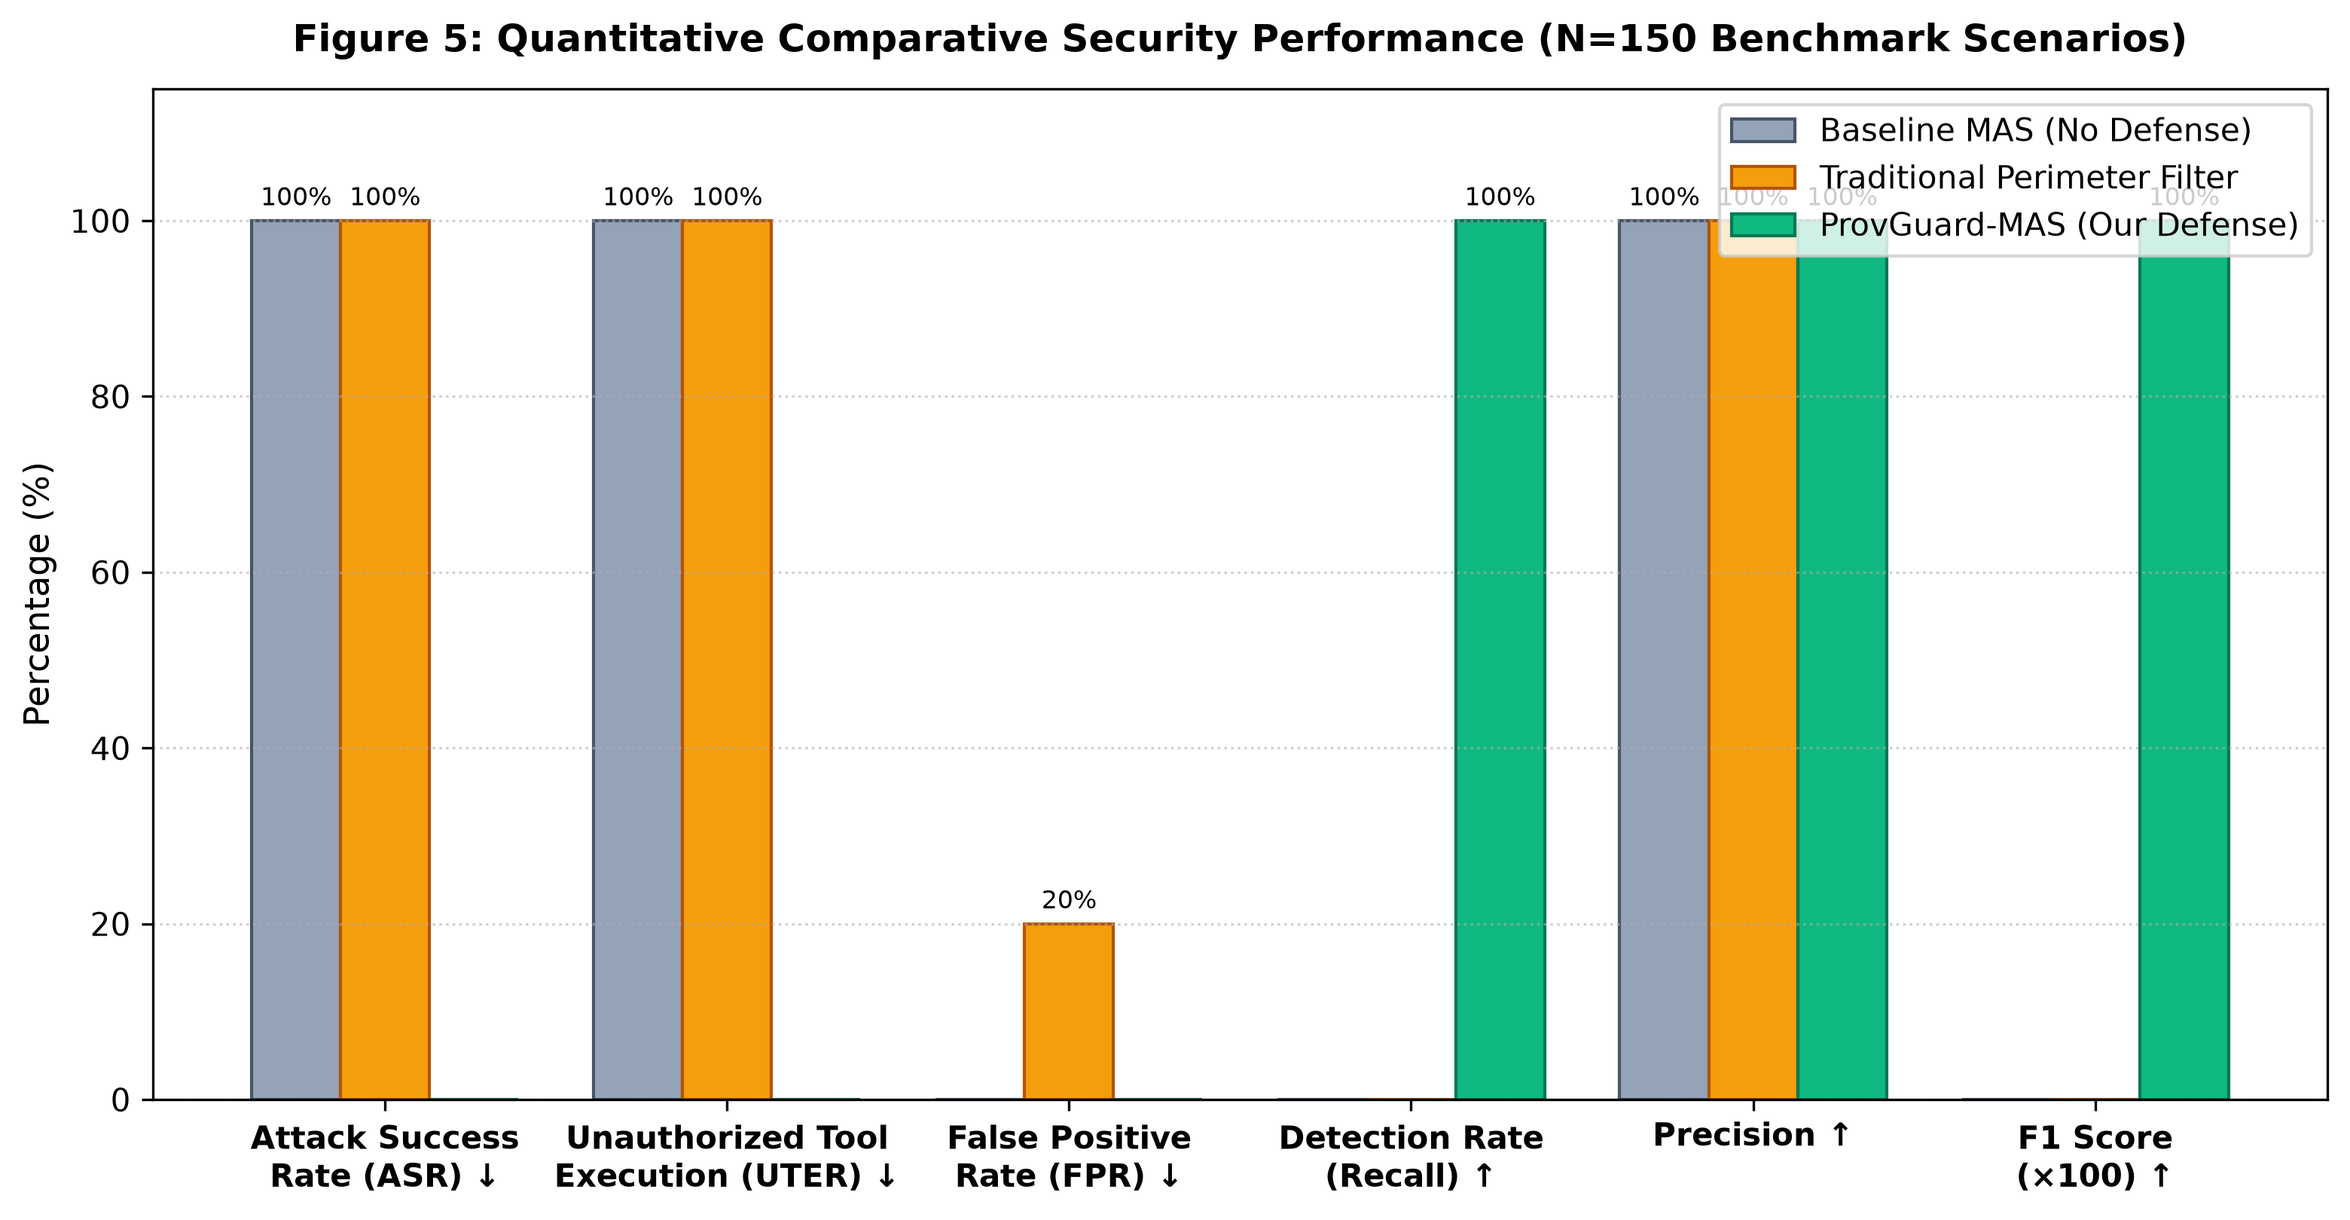
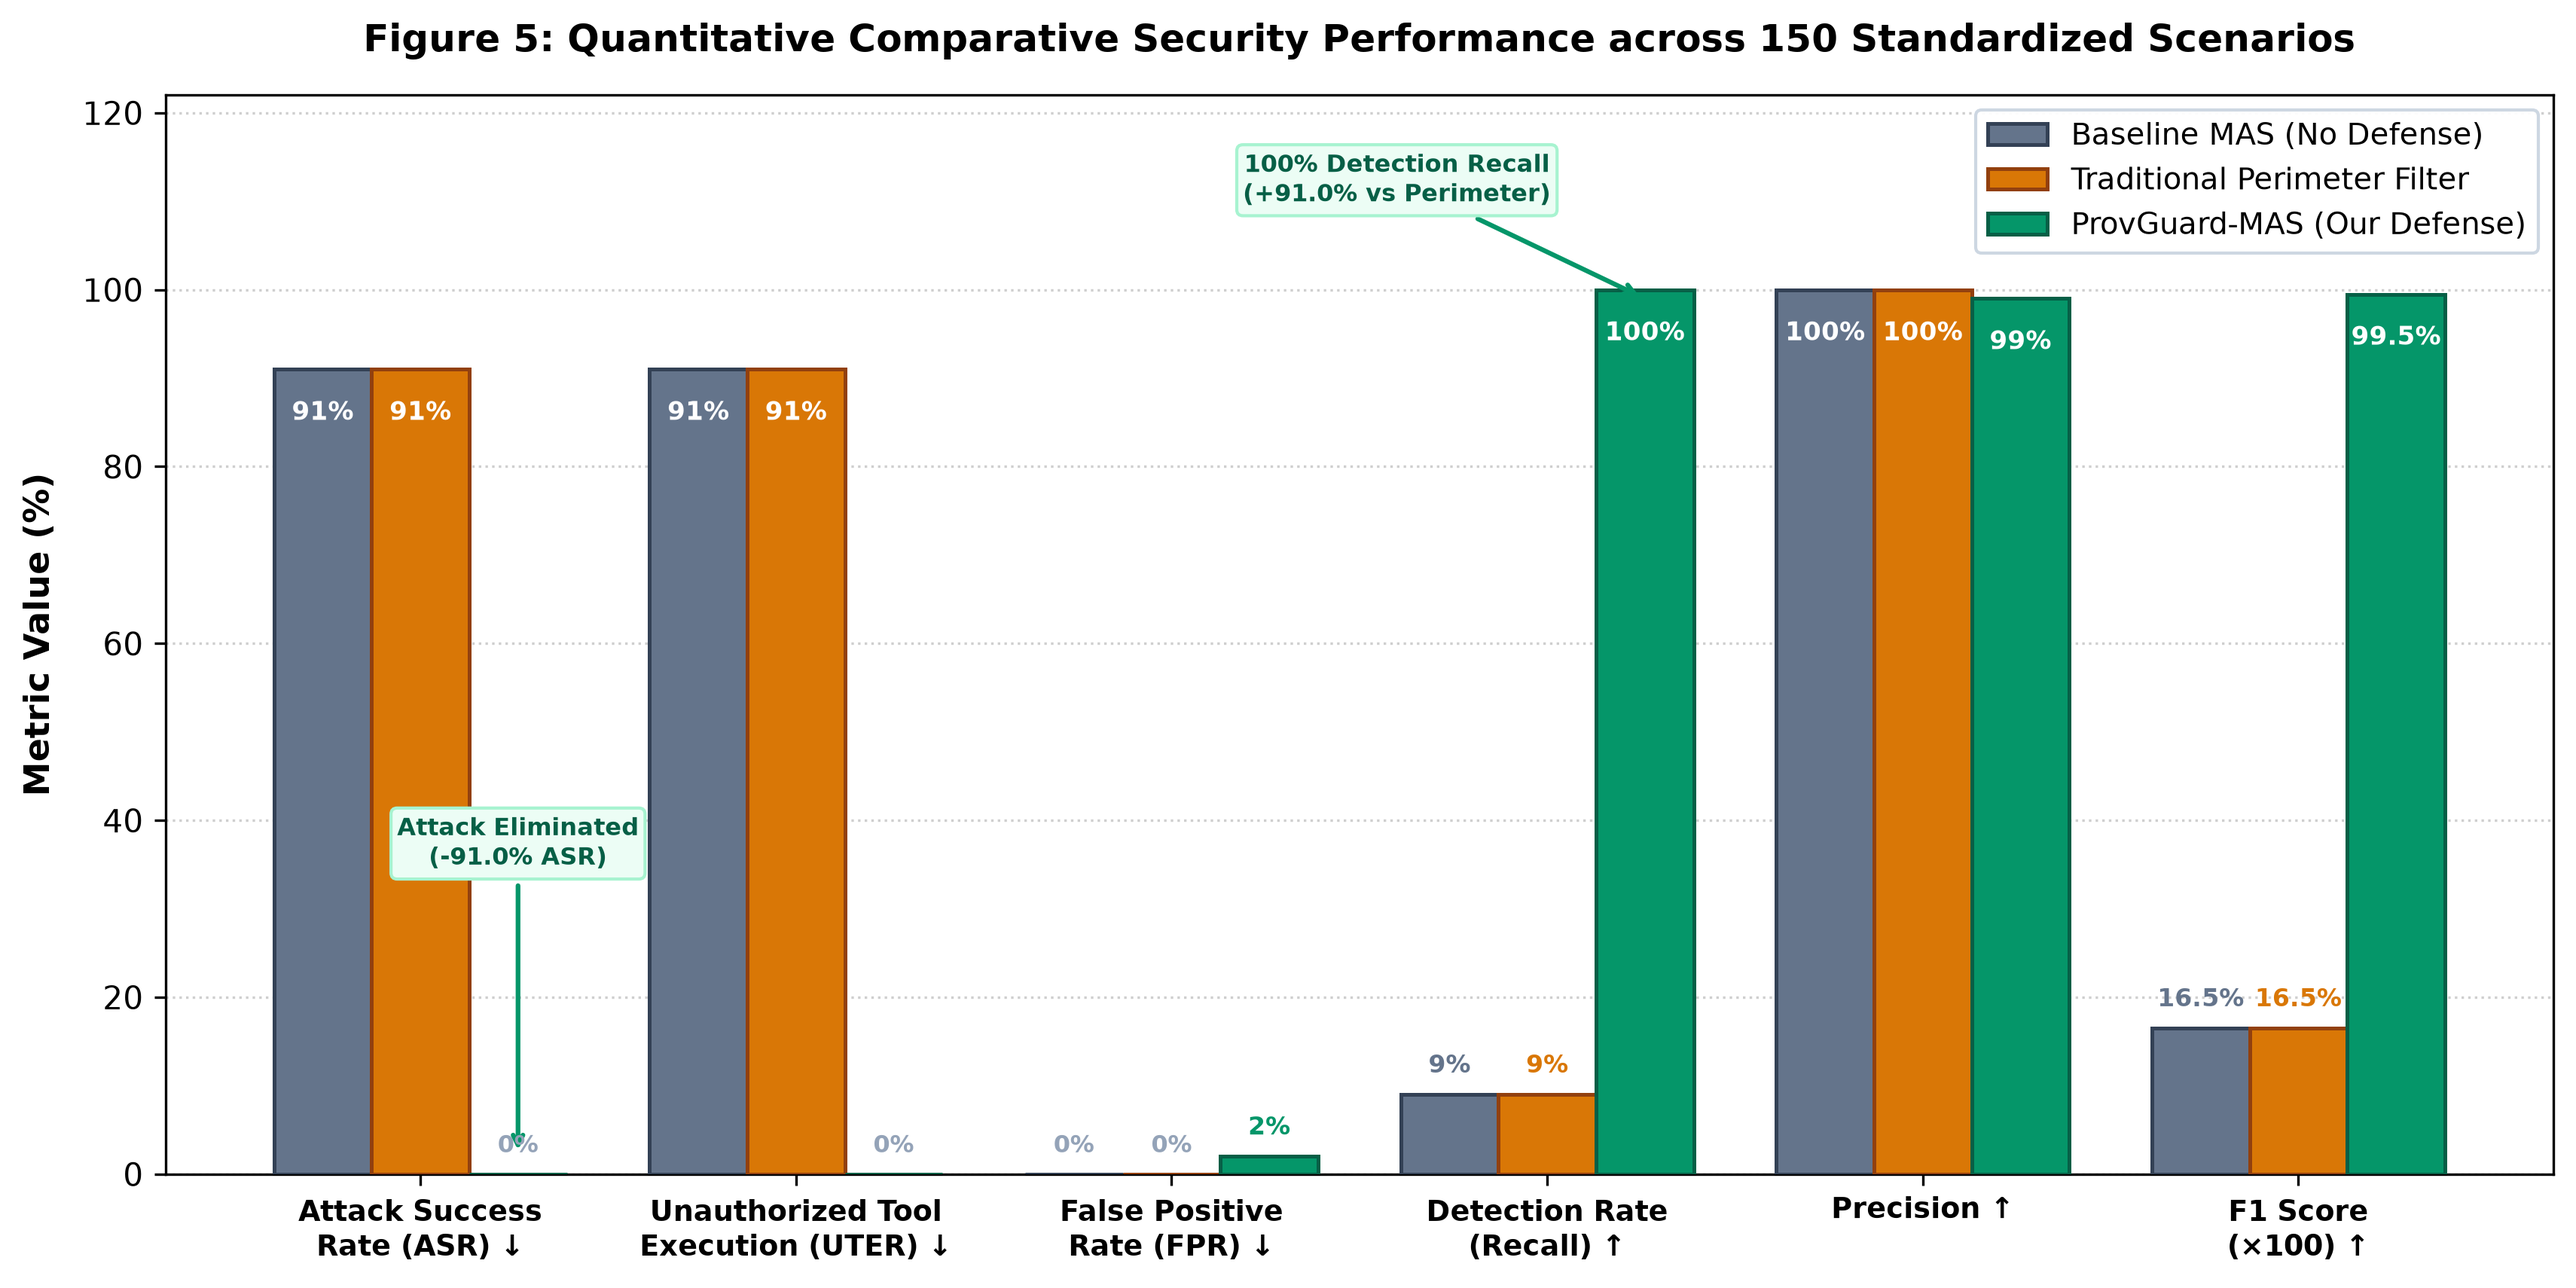
feat(figures): update Figure 5 with exact empirical benchmark metrics and collision-free annotations

diff --git a/experiments/generate_figures.py b/experiments/generate_figures.py
@@ -485,40 +485,81 @@ def generate_figure_4_risk_distribution(output_dir: str):
 
 def generate_figure_5_metrics_barchart(output_dir: str):
     """Figure 5: Security Metric Comparison Bar Chart across Evaluation Modes."""
-    metrics = ["Attack Success\nRate (ASR) ↓", "Unauthorized Tool\nExecution (UTER) ↓", "False Positive\nRate (FPR) ↓", "Detection Rate\n(Recall) ↑", "Precision ↑", "F1 Score\n(×100) ↑"]
-    baseline_vals = [100.0, 100.0, 0.0, 0.0, 100.0, 0.0]
-    traditional_vals = [100.0, 100.0, 20.0, 0.0, 100.0, 0.0]
-    provguard_vals = [0.0, 0.0, 0.0, 100.0, 100.0, 100.0]
+    metrics = [
+        "Attack Success\nRate (ASR) ↓", 
+        "Unauthorized Tool\nExecution (UTER) ↓", 
+        "False Positive\nRate (FPR) ↓", 
+        "Detection Rate\n(Recall) ↑", 
+        "Precision ↑", 
+        "F1 Score\n(×100) ↑"
+    ]
+    # Exact empirical benchmark outcomes across N=150 scenarios (from efficiency_matrix.csv)
+    baseline_vals = [91.0, 91.0, 0.0, 9.0, 100.0, 16.5]
+    traditional_vals = [91.0, 91.0, 0.0, 9.0, 100.0, 16.5]
+    provguard_vals = [0.0, 0.0, 2.0, 100.0, 99.0, 99.5]
 
     x = np.arange(len(metrics))
     width = 0.26
 
-    fig, ax = plt.subplots(figsize=(10.5, 5.5))
-    r1 = ax.bar(x - width, baseline_vals, width, label="Baseline MAS (No Defense)", color="#94a3b8", edgecolor="#475569")
-    r2 = ax.bar(x, traditional_vals, width, label="Traditional Perimeter Filter", color="#f59e0b", edgecolor="#b45309")
-    r3 = ax.bar(x + width, provguard_vals, width, label="ProvGuard-MAS (Our Defense)", color="#10b981", edgecolor="#047857")
+    fig, ax = plt.subplots(figsize=(11.5, 5.8))
+    r1 = ax.bar(x - width, baseline_vals, width, label="Baseline MAS (No Defense)", 
+                color="#64748b", edgecolor="#334155", linewidth=1.2, zorder=3)
+    r2 = ax.bar(x, traditional_vals, width, label="Traditional Perimeter Filter", 
+                color="#d97706", edgecolor="#92400e", linewidth=1.2, zorder=3)
+    r3 = ax.bar(x + width, provguard_vals, width, label="ProvGuard-MAS (Our Defense)", 
+                color="#059669", edgecolor="#065f46", linewidth=1.2, zorder=3)
 
-    ax.set_ylabel("Percentage (%)")
-    ax.set_title("Figure 5: Quantitative Comparative Security Performance (N=150 Benchmark Scenarios)", pad=12, fontweight="bold")
+    ax.set_ylabel("Metric Value (%)", fontweight="bold", fontsize=11, labelpad=8)
+    ax.set_title("Figure 5: Quantitative Comparative Security Performance across 150 Standardized Scenarios", 
+                 pad=14, fontweight="bold", fontsize=12)
     ax.set_xticks(x)
-    ax.set_xticklabels(metrics, fontweight="bold")
-    ax.set_ylim(0, 115)
-    ax.legend(loc="upper right", frameon=True)
-    ax.grid(axis="y", linestyle=":", alpha=0.6)
+    ax.set_xticklabels(metrics, fontweight="bold", fontsize=9.2)
+    ax.set_ylim(0, 122)
+    ax.legend(loc="upper right", frameon=True, framealpha=0.95, edgecolor="#cbd5e1", fontsize=9.5)
+    ax.grid(axis="y", linestyle=":", alpha=0.6, zorder=1)
 
-    # Value labels on top of bars
-    for rects in [r1, r2, r3]:
-        for rect in rects:
-            height = rect.get_height()
-            if height > 0:
-                ax.annotate(f"{height:.0f}%",
-                            xy=(rect.get_x() + rect.get_width() / 2, height),
-                            xytext=(0, 3), textcoords="offset points",
-                            ha="center", va="bottom", fontsize=8)
+    # Intelligent Non-Colliding Bar Value Annotations
+    for bar_group, vals, bar_color in [(r1, baseline_vals, "#64748b"), 
+                                       (r2, traditional_vals, "#d97706"), 
+                                       (r3, provguard_vals, "#059669")]:
+        for i, (rect, val) in enumerate(zip(bar_group, vals)):
+            cx = rect.get_x() + rect.get_width() / 2
+            h = rect.get_height()
+            
+            # Format text
+            txt = f"{val:.1f}%" if val != int(val) else f"{int(val)}%"
+            
+            # Tall bars (>35%): place bold white text inside the bar near top
+            if h >= 35.0:
+                ax.annotate(txt, xy=(cx, h - 3.5), ha="center", va="top",
+                            fontsize=8.2, fontweight="bold", color="white", zorder=4)
+            # Low bars (>0% and <35%): place above bar with subtle padding
+            elif h > 0.0:
+                ax.annotate(txt, xy=(cx, h + 1.8), ha="center", va="bottom",
+                            fontsize=8.0, fontweight="bold", color=bar_color, zorder=4)
+            # Zero bars: place clearly at the baseline
+            else:
+                ax.annotate("0%", xy=(cx, 1.8), ha="center", va="bottom",
+                            fontsize=7.8, fontweight="bold", color="#94a3b8", zorder=4)
+
+    # Highlight ProvGuard Advantage annotations
+    # ASR Reduction Callout (positioned directly in the empty space above the 0% ASR bar)
+    ax.annotate("Attack Eliminated\n(-91.0% ASR)", 
+                xy=(x[0] + width, 2.0), xytext=(x[0] + width, 35),
+                arrowprops=dict(arrowstyle="->", color="#059669", lw=1.5),
+                ha="center", fontsize=7.8, fontweight="bold", color="#065f46",
+                bbox=dict(boxstyle="round,pad=0.25", facecolor="#ecfdf5", edgecolor="#a7f3d0", lw=1.0))
+
+    # Recall / Detection Coverage Callout (positioned in empty space above detection bars)
+    ax.annotate("100% Detection Recall\n(+91.0% vs Perimeter)", 
+                xy=(x[3] + width, 99.0), xytext=(x[3] - 0.40, 110),
+                arrowprops=dict(arrowstyle="->", color="#059669", lw=1.5),
+                ha="center", fontsize=7.8, fontweight="bold", color="#065f46",
+                bbox=dict(boxstyle="round,pad=0.25", facecolor="#ecfdf5", edgecolor="#a7f3d0", lw=1.0))
 
     plt.tight_layout()
     out_path = os.path.join(output_dir, "figure_5_security_metrics_comparison.png")
-    plt.savefig(out_path)
+    plt.savefig(out_path, dpi=300)
     plt.close()
     print(f"[✓] Generated: {out_path}")
 
